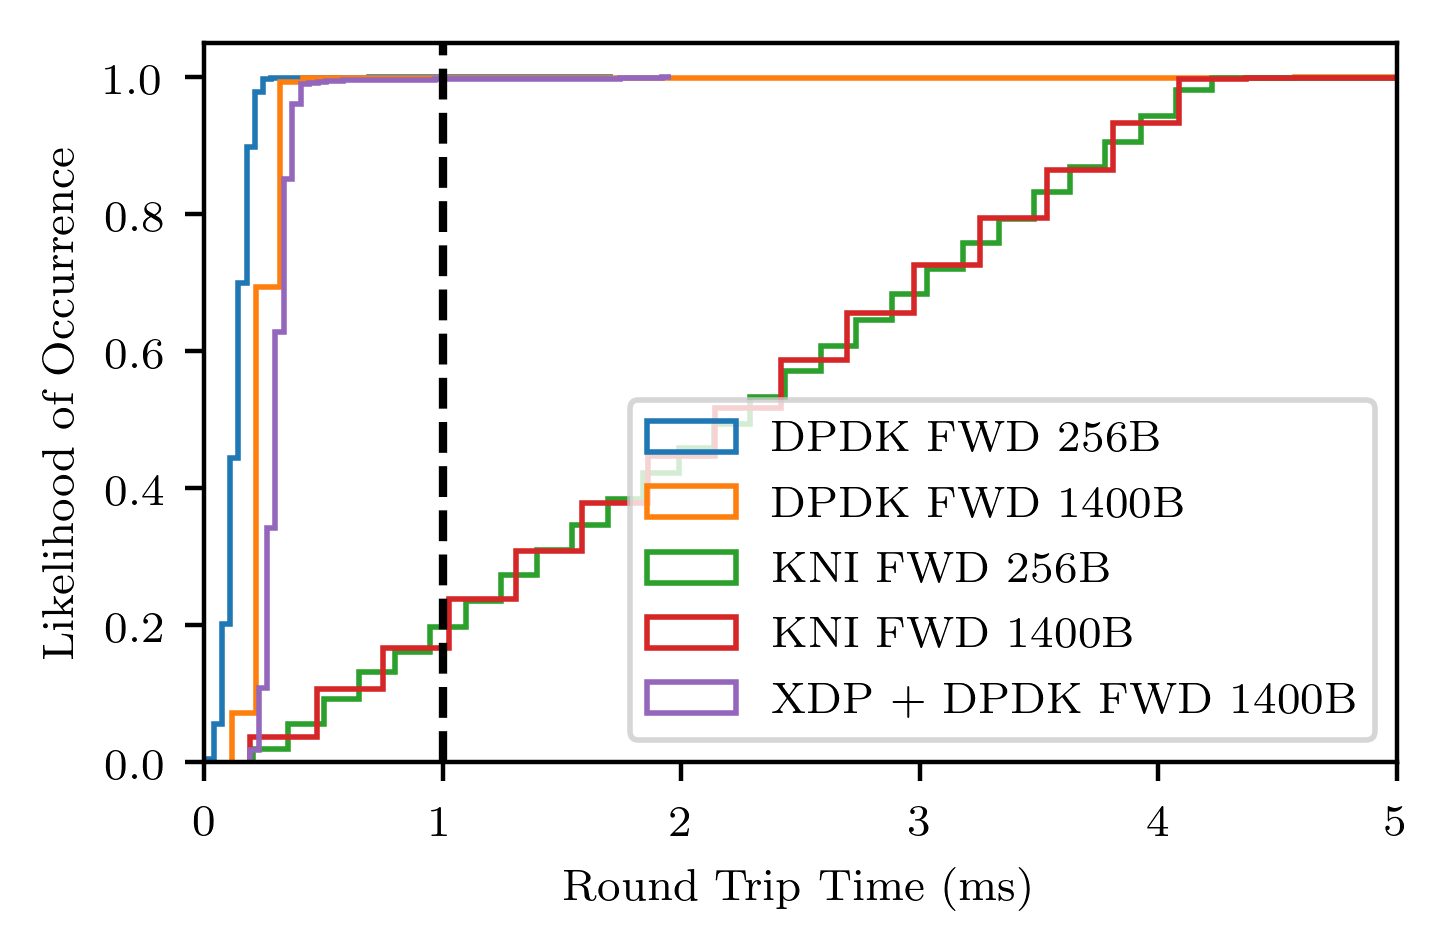
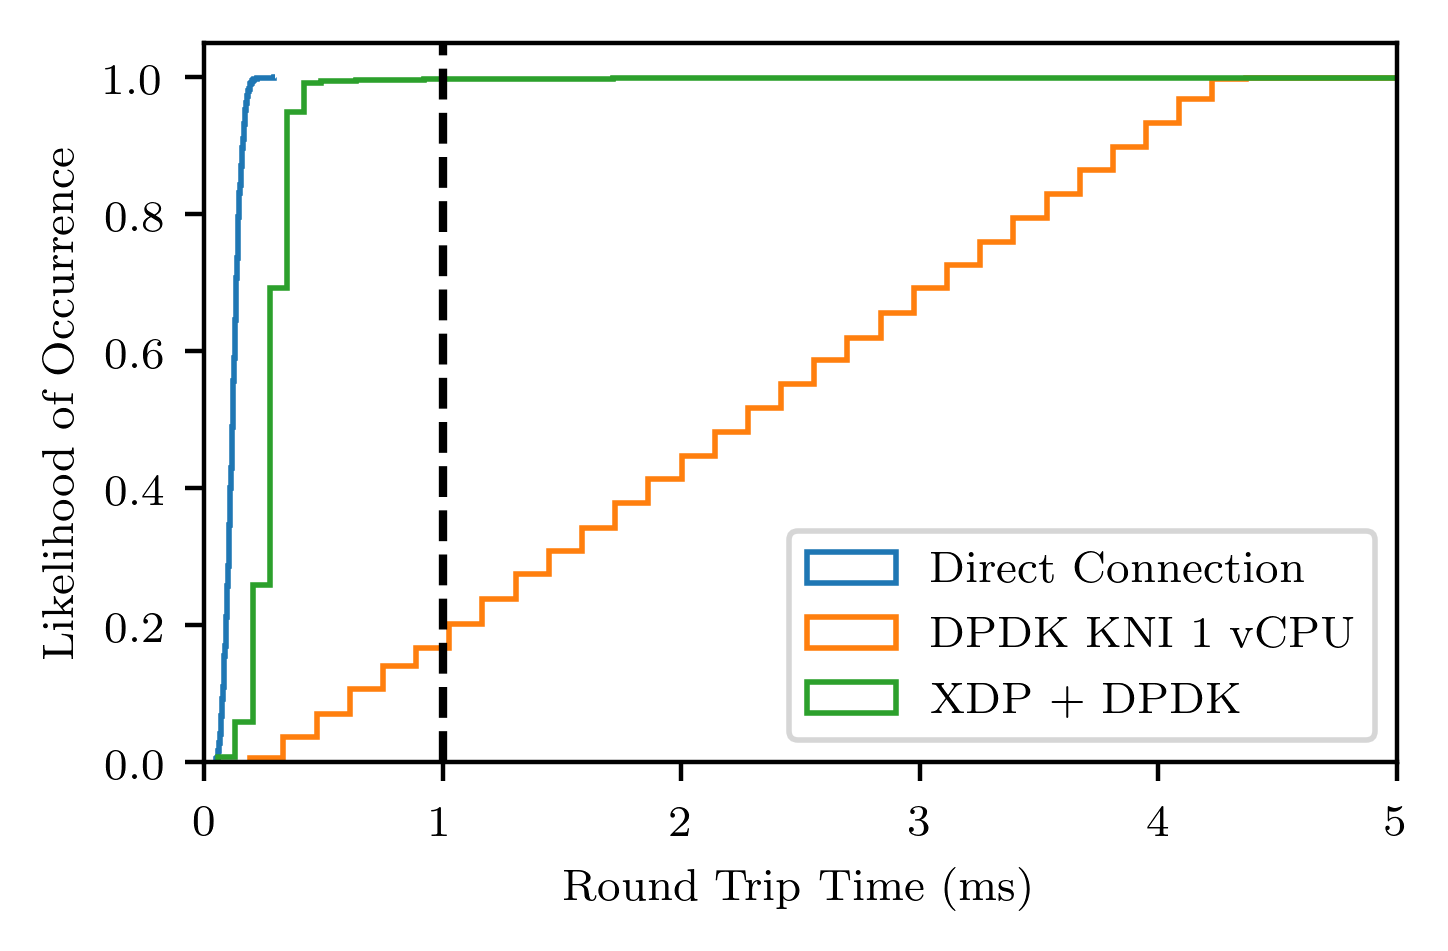
<data>: Add new plots for CDF and bandwidth

Changed region(s): [[0.1243, 0.061, 0.9634, 0.8233]]

diff --git a/evaluation/plot.py b/evaluation/plot.py
@@ -1,0 +1,120 @@
+#! /usr/bin/env python3
+# -*- coding: utf-8 -*-
+# vim:fenc=utf-8
+#
+
+"""
+About: Plot evaluation results
+"""
+
+import os
+import sys
+sys.path.append('./scripts/')
+import tex
+
+import numpy as np
+
+import matplotlib as mpl
+import matplotlib.pyplot as plt
+from matplotlib.pyplot import cm
+from scipy import stats
+
+FIG_FMT = 'png'
+
+
+def calc_hwci(data, confidence=0.95):
+    hwci = stats.sem(data) * stats.t._ppf((1+confidence)/2.0, len(data)-1)
+    return hwci
+
+
+def save_fig(fig, path, fmt=FIG_FMT):
+    """Save fig to path"""
+    fig.savefig(path + '.%s' % fmt, pad_iches=0,
+                bbox_inches='tight', dpi=400, format=fmt)
+
+
+def warn_x_std(value_arr, path=None, ret_inv_lst=False, x=3):
+    """Raise exception if the value is not in the x std +- mean value of
+    value_arr
+    """
+    avg = np.average(value_arr)
+    std = np.std(value_arr)
+    invalid_index = list()
+
+    for idx, value in enumerate(value_arr):
+        if (abs(value - avg) >= x * std):
+            if not ret_inv_lst:
+                if path:
+                    error_msg = 'Line: %d, Value: %s is not located in three std range, path: %s' % (
+                        (idx + 1), value, path)
+                else:
+                    error_msg = 'Line: %d, Value: %s is not located in three std range of list: %s' % (
+                        (idx + 1), value, ', '.join(map(str, value_arr)))
+                raise RuntimeError(error_msg)
+            else:
+                invalid_index.append(idx)
+
+    print('[DEBUG] Len of value_arr: %d' % len(value_arr))
+    return (value_arr, invalid_index)
+
+
+def label_bar(rects, ax):
+    """
+    Attach a text label above each bar displaying its height
+    """
+    for rect in rects:
+        height = rect.get_height()
+        ax.text(rect.get_x() + rect.get_width() / 2., 1.1*height,
+                '%.2f' % height, fontsize=5,
+                ha='center', va='bottom')
+
+
+def plot_bw():
+    tex.setup(width=1, height=None, span=False, l=0.15, r=0.98, t=0.98, b=0.17,
+              params={
+                  'hatch.linewidth': 0.5
+              }
+              )
+    PAYLOAD_SIZE = [256, 512, 1024, 1400]
+    cmap = cm.get_cmap('tab10')
+    csv_names = [
+        'udp_bw_dpdk_fwd_kni_1core.csv'
+    ]
+
+    N = 4
+    ind = np.arange(N)    # the x locations for the groups
+    width = 0.35         # the width of the bars
+    fig, ax = plt.subplots()
+    labels = [
+        "DPDK KNI 1 vCPU",
+
+    ]
+    for idx, csv in enumerate(csv_names):
+        csv_path = os.path.join("./bandwidth/results/", csv)
+        bw_arr = np.genfromtxt(csv_path, delimiter=',',
+                               usecols=list(range(0, 2)))
+        bw_avg = bw_arr[:, 1]
+        p1 = ax.bar(ind, bw_avg, width, color=cmap(idx), bottom=0,
+                    label=labels[idx])
+
+    ax.set_ylabel('Bandwidth (Kbits/sec)')
+
+    ax.set_xticks(ind + width / 2)
+    ax.set_xticklabels(('256', '512', '1024', '1400'))
+    ax.set_xlabel('Payload Size (Bytes)')
+
+    handles, labels = ax.get_legend_handles_labels()
+    ax.legend(handles, labels, loc='upper left')
+    ax.autoscale_view()
+    ax.grid(linestyle='--')
+
+    save_fig(fig, "./bandwidth")
+
+
+if __name__ == '__main__':
+    if len(sys.argv) == 3:
+        FIG_FMT = sys.argv[2]
+    elif sys.argv[1] == 'bw':
+        plot_bw()
+    else:
+        raise RuntimeError('Unknown option!')

diff --git a/evaluation/round_trip_time/plot.py b/evaluation/round_trip_time/plot.py
@@ -228,21 +228,17 @@ def plot_cdf():
               }
               )
     cmap = cm.get_cmap('tab10')
-    profils = [
-        'dpdk_fwd', 'dpdk_fwd_kni'
-    ]
-    pl_sizes = ['256B', '1400B']
-    csv_files = [
-        '_'.join(['udp_rtt', profil, pl_size, '5ms.csv'])
-        for profil in profils
-        for pl_size in pl_sizes
-    ]
+    csv_files = list()
+    csv_files.append('udp_rtt_direct_1400B_5ms.csv')
+    csv_files.append('udp_rtt_dpdk_fwd_kni_1vcpu_1400B_5ms.csv')
+    # csv_files.append('udp_rtt_dpdk_fwd_kni_2vcpu_1400B_5ms.csv')
     csv_files.append('udp_rtt_xdp_dpdk_fwd_1400B_5ms.csv')
     rtt_map = dict()
     keys = [
-        'DPDK FWD 256B', 'DPDK FWD 1400B',
-        'KNI FWD 256B', 'KNI FWD 1400B',
-        'XDP + DPDK FWD 1400B'
+        'Direct Connection',
+        'DPDK KNI 1 vCPU',
+        # 'DPDK KNI 2 vCPU',
+        'XDP + DPDK'
     ]
     for i, csv_name in enumerate(csv_files):
         csv_path = os.path.join('./results/rtt/', csv_name)
@@ -254,10 +250,13 @@ def plot_cdf():
 
     # Use histograms to plot a cumulative distribution
     fig, ax = plt.subplots()
-    n_bins = 50
+    n_bins = 100
+    idx = 0
     for key, value in rtt_map.items():
         n, bins, patches = ax.hist(value, n_bins, density=True, histtype='step',
-                                   cumulative=True, label=key)
+                                   cumulative=True, label=key, color=cmap(idx),
+                                   edgecolor=cmap(idx))
+        idx += 1
         patches[0].set_xy(patches[0].get_xy()[:-1])
 
     plt.axvline(x=1, color='black', ls='--')
